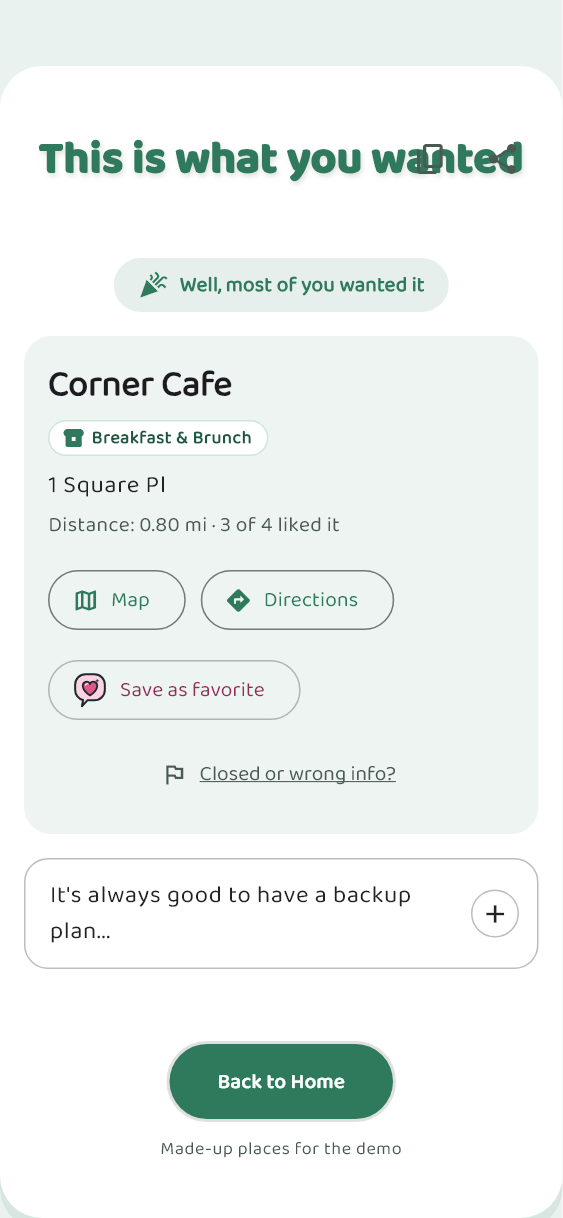
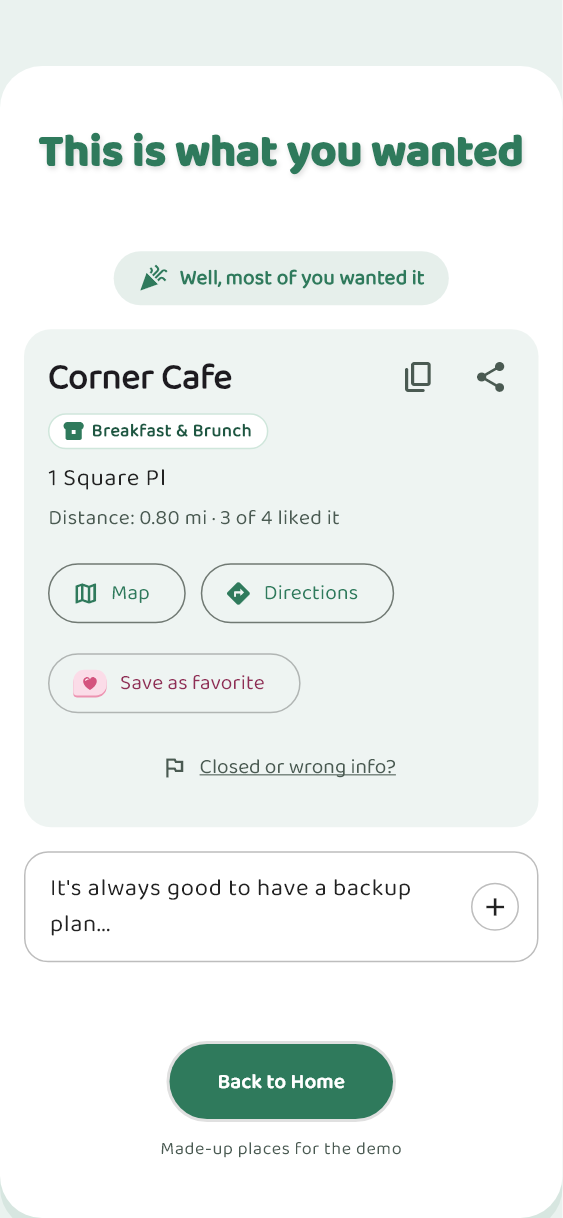
Soften the speech bubbles
Yes, No, Favorite, Never and the notice bubble lose their thick dark outline:
each is now a pastel bubble with a deeper edge underneath, its word or
symbol in the darkest shade of its colour, and a less rounded corner in place
of the pointed tail, still leaning toward the middle. The site's demo phone
screens are regenerated to match.

diff --git a/lib/screens/bubble_icons.dart b/lib/screens/bubble_icons.dart
@@ -1,34 +1,39 @@
-import 'dart:typed_data';
-
 import 'package:flutter/material.dart';
 import 'package:google_fonts/google_fonts.dart';
 
-/// The app's speech-bubble icons, drawn like the logo's food bubbles: a
-/// thick ink outline, a coloured bubble and a white glyph. Painted rather
-/// than loaded, so they stay sharp at any size.
+/// The app's speech-bubble icons: soft pastel bubbles with a deeper edge
+/// underneath and no outline, the "tail" a less rounded corner pointing
+/// toward the middle. Painted rather than loaded, so they stay sharp at any
+/// size.
 enum BubbleGlyph {
   /// Says "Yes": votes yes.
-  yes(Color(0xFF65B292)),
+  yes(Color(0xFFC2EDDD), Color(0xFF5DCAA5), Color(0xFF085041)),
 
   /// Says "No": votes no.
-  no(Color(0xFFF59E84)),
+  no(Color(0xFFFAD6C8), Color(0xFFF0997B), Color(0xFF712B13)),
 
-  /// A crossed-out empty plate: Never what I want.
-  never(Color(0xFFA7ACA8)),
+  /// A crossed-out plate: Never what I want.
+  never(Color(0xFFE4E3DE), Color(0xFFB4B2A9), Color(0xFF444441)),
 
-  /// A heart with a sparkle: I know what I want.
-  favorite(Color(0xFFFBD3E2)),
+  /// A heart: I know what I want.
+  favorite(Color(0xFFFBDCE8), Color(0xFFED93B1), Color(0xFF993556)),
 
   /// An exclamation mark: something needs attention.
-  notice(Color(0xFFF7C948));
+  notice(Color(0xFFFFF1C9), Color(0xFFF7C948), Color(0xFF6B4E00));
 
-  const BubbleGlyph(this.color);
+  const BubbleGlyph(this.color, this.edge, this.ink);
+
+  /// The bubble's fill.
   final Color color;
+
+  /// The deeper edge drawn just under the bubble.
+  final Color edge;
+
+  /// The word or symbol on it.
+  final Color ink;
 }
 
-const _ink = Color(0xFF1D2B2C);
-const _coral = Color(0xFFF59E84);
-const _heart = Color(0xFFE0558A);
+const _heart = Color(0xFFD4537E);
 
 class BubbleIcon extends StatelessWidget {
   const BubbleIcon(
@@ -41,7 +46,8 @@ class BubbleIcon extends StatelessWidget {
   final BubbleGlyph glyph;
   final double size;
 
-  /// Puts the bubble's tail at the bottom right instead of the bottom left.
+  /// Puts the bubble's tail corner at the bottom right instead of the bottom
+  /// left.
   final bool tailRight;
 
   @override
@@ -57,7 +63,7 @@ class _BubblePainter extends CustomPainter {
   final BubbleGlyph glyph;
   final bool tailRight;
 
-  Paint _stroke(double width, [Color color = _ink]) =>
+  Paint _stroke(double width, Color color) =>
       Paint()
         ..style = PaintingStyle.stroke
         ..strokeWidth = width
@@ -69,45 +75,24 @@ class _BubblePainter extends CustomPainter {
 
   @override
   void paint(Canvas canvas, Size size) {
-    // Drawn on a 160-unit square, like the site's bubble artwork.
+    // Drawn on a 160-unit square. The bubble is a little wider than tall,
+    // centred, with room under it for the edge.
     canvas.scale(size.width / 160);
-    final body =
-        Path()..addRRect(
-          RRect.fromLTRBR(14, 10, 146, 126, const Radius.circular(46)),
-        );
-    final tail =
-        Path()
-          ..moveTo(76, 118)
-          ..lineTo(44, 152)
-          ..lineTo(52, 110)
-          ..close();
-    var bubble = Path.combine(PathOperation.union, body, tail);
-    if (tailRight) {
-      // Mirrored across the middle of the 160-unit square.
-      bubble = bubble.transform(
-        Float64List.fromList([
-          -1,
-          0,
-          0,
-          0,
-          0,
-          1,
-          0,
-          0,
-          0,
-          0,
-          1,
-          0,
-          160,
-          0,
-          0,
-          1,
-        ]),
-      );
-    }
+    const round = Radius.circular(48);
+    const tail = Radius.circular(16);
+    RRect bubbleAt(double dy) => RRect.fromLTRBAndCorners(
+      6,
+      20 + dy,
+      154,
+      134 + dy,
+      topLeft: round,
+      topRight: round,
+      bottomLeft: tailRight ? round : tail,
+      bottomRight: tailRight ? tail : round,
+    );
     canvas
-      ..drawPath(bubble, _fill(glyph.color))
-      ..drawPath(bubble, _stroke(9));
+      ..drawRRect(bubbleAt(9), _fill(glyph.edge))
+      ..drawRRect(bubbleAt(0), _fill(glyph.color));
     switch (glyph) {
       case BubbleGlyph.yes:
         _word(canvas, 'Yes');
@@ -122,15 +107,14 @@ class _BubblePainter extends CustomPainter {
     }
   }
 
-  // The word itself, so the vote reads at a glance. Dark ink on the bubble's
-  // colour, centred in its body.
+  // The word itself, so the vote reads at a glance, centred in the bubble.
   void _word(Canvas canvas, String word) {
     final painter = TextPainter(
       text: TextSpan(
         text: word,
         style: GoogleFonts.baloo2(
-          color: _ink,
-          fontSize: word.length > 2 ? 52 : 58,
+          color: glyph.ink,
+          fontSize: word.length > 2 ? 54 : 60,
           fontWeight: FontWeight.w800,
           height: 1,
         ),
@@ -139,57 +123,45 @@ class _BubblePainter extends CustomPainter {
     )..layout();
     painter.paint(
       canvas,
-      Offset(80 - painter.width / 2, 70 - painter.height / 2),
+      Offset(80 - painter.width / 2, 78 - painter.height / 2),
     );
   }
 
   void _plate(Canvas canvas) =>
       canvas
-        ..drawCircle(const Offset(80, 68), 31, _fill(Colors.white))
-        ..drawCircle(const Offset(80, 68), 31, _stroke(8))
-        ..drawCircle(
-          const Offset(80, 68),
-          17,
-          _stroke(5, const Color(0xFFE3E1DA)),
-        )
-        ..drawLine(const Offset(58, 46), const Offset(102, 90), _stroke(13))
+        ..drawCircle(const Offset(80, 77), 30, _stroke(9, glyph.ink))
         ..drawLine(
-          const Offset(58, 46),
-          const Offset(102, 90),
-          _stroke(5, _coral),
+          const Offset(59, 56),
+          const Offset(101, 98),
+          _stroke(9, glyph.ink),
         );
 
   void _heartGlyph(Canvas canvas) {
     final heart =
         Path()
-          ..moveTo(80, 104)
-          ..cubicTo(44, 82, 40, 52, 60, 44)
-          ..cubicTo(70, 40, 78, 46, 80, 54)
-          ..cubicTo(82, 46, 90, 40, 100, 44)
-          ..cubicTo(120, 52, 116, 82, 80, 104)
+          ..moveTo(80, 110)
+          ..cubicTo(46, 90, 42, 62, 61, 54)
+          ..cubicTo(70, 50, 78, 56, 80, 63)
+          ..cubicTo(82, 56, 90, 50, 99, 54)
+          ..cubicTo(118, 62, 114, 90, 80, 110)
           ..close();
     final shine =
         Path()
-          ..moveTo(60, 58)
-          ..cubicTo(62, 53, 67, 51, 71, 53);
+          ..moveTo(61, 67)
+          ..cubicTo(63, 62, 67, 60, 71, 62);
     canvas
       ..drawPath(heart, _fill(_heart))
-      ..drawPath(heart, _stroke(8))
-      ..drawPath(shine, _stroke(5, Colors.white))
-      ..drawLine(const Offset(112, 34), const Offset(112, 44), _stroke(4))
-      ..drawLine(const Offset(107, 39), const Offset(117, 39), _stroke(4));
+      ..drawPath(shine, _stroke(5, Colors.white));
   }
 
   void _exclamation(Canvas canvas) =>
       canvas
-        ..drawLine(const Offset(80, 36), const Offset(80, 78), _stroke(22))
         ..drawLine(
-          const Offset(80, 36),
-          const Offset(80, 78),
-          _stroke(10, Colors.white),
+          const Offset(80, 46),
+          const Offset(80, 84),
+          _stroke(14, glyph.ink),
         )
-        ..drawCircle(const Offset(80, 100), 11, _fill(Colors.white))
-        ..drawCircle(const Offset(80, 100), 11, _stroke(6));
+        ..drawCircle(const Offset(80, 106), 8, _fill(glyph.ink));
 
   @override
   bool shouldRepaint(_BubblePainter old) =>
